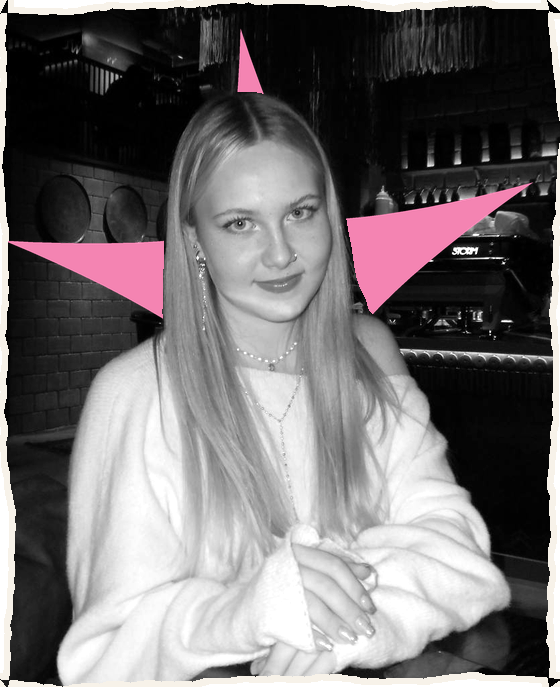
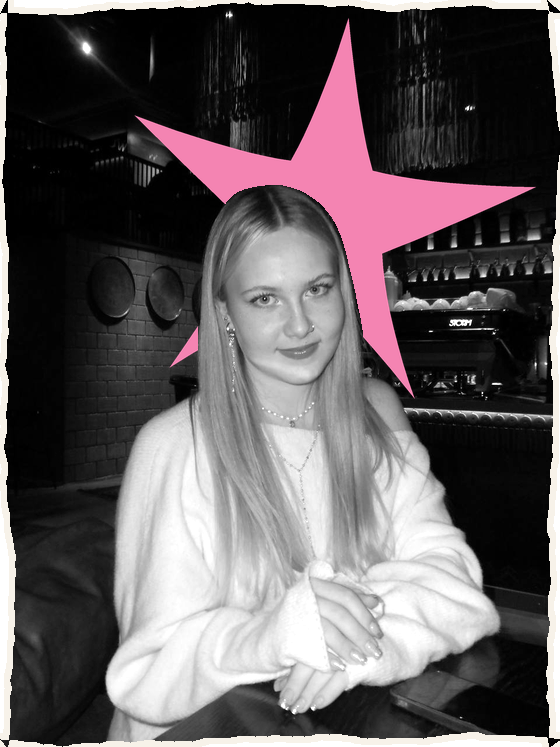
Draw the stars and hearts; titles back to Shantell Sans
The stars and hearts were regular polygons with a turbulence filter over the
top, which still reads as even — every arm the same length, every edge dead
straight. They are now drawn: arms of different lengths, angles that miss,
edges that bow, and an overshoot where an outlined stroke comes back round to
its start. tools/make-deco-symbols.py generates the path data; the shapes
ship as literal paths. Two -b variants so a shape repeated on one page is
never identical to itself.

On the About page they also no longer sit on anything. Two of the four were
overlapping — one on the body copy, one on the pink photograph — so each was
placed by measuring every content box and searching for a spot that clears
them all. Positions are scored against nine window widths at once rather than
the one they were eyeballed at, because a gap that is comfortable at 1440
closes completely at 900.

That needed two structural fixes:

  - The stage used min-height: clamp(1000px, 115vw, 1650px), so it changed
    shape as it narrowed while the photographs on it scaled with width. The
    vertical gaps closed up and pushed the decorations onto the photographs
    between 861px and 1180px. It now holds one aspect-ratio.
  - Below 860px the scraps stop being positioned and stack, but the
    decorations stayed absolute and floated over them. They now join the
    stack.

Worst clearance is 16.7px, measured at eighteen widths from 360 to 2560.
[…]

diff --git a/assets/js/sprite.js b/assets/js/sprite.js
@@ -7,11 +7,21 @@
    Everything here is decoration: mark each <svg class="deco"> aria-hidden.
 
    Pieces:
-     #scribble  #spiral  #arrow  #arrow-curve  #star-6  #star-8
-     #circle-rough  #underline  #strike  #thread-seg
+     #scribble  #spiral  #arrow  #arrow-curve  #circle-rough  #underline
+     #strike  #thread-seg
+     #star-5  #star-6  #star-8  #star-line  #star-line-b
+     #heart  #heart-line  #heart-line-b
 
    Edges are roughened by the feTurbulence/feDisplacementMap filter #rough,
    so strokes read as brush/crayon rather than clean vector lines.
+
+   The stars and hearts are NOT regular polygons with that filter laid over
+   the top — that still reads as even, because every arm is the same length
+   and every edge is straight. Their arms differ, their edges bow and the
+   outlined ones overshoot where the stroke closes. tools/make-deco-symbols.py
+   generates the path data; the shapes ship as literal paths, not as code.
+   The -b variants exist so a shape repeated on one page is never identical
+   to itself.
    ========================================================================= */
 
 (function () {
@@ -62,19 +72,23 @@
     '  </g>',
     '</symbol>',
 
-    /* --- 6-point crayon star -------------------------------------------- */
+    /* --- 6-point star, drawn  ----------------------------------------------*/
     '<symbol id="star-6" viewBox="0 0 100 100">',
     '  <path fill="currentColor" filter="url(#rough)"',
-    '        d="M98 50 61.3 56.5 74 91.6 50 63 26 91.6 38.7 56.5 2 50 38.7 43.5',
-    '           26 8.4 50 37 74 8.4 61.3 43.5Z"/>',
+    '        d="M45.9 4.4 Q52.4 16.3 60.4 27.3 Q74.9 26.3 89.1 23.5 Q79.9 35.4 72.8',
+    '           48.6 Q79.7 60.1 89.2 69.3 Q76.3 68.1 63.2 68.6 Q55.9 81.9 51.5 96.4',
+    '           Q47.3 83 40.2 70.9 Q24.4 71.5 9.1 74.9 Q18.4 64.1 25.3 51.7 Q15.4',
+    '           39.8 4.1 29.2 Q19.8 29.9 35.4 28.8 Q41.6 17 45.9 4.4Z"/>',
     '</symbol>',
 
-    /* --- 8-point crayon star -------------------------------------------- */
+    /* --- 8-point star, drawn  ----------------------------------------------*/
     '<symbol id="star-8" viewBox="0 0 100 100">',
     '  <path fill="currentColor" filter="url(#rough)"',
-    '        d="M98 50 62.9 55.4 83.9 83.9 55.4 62.9 50 98 44.6 62.9 16.1 83.9',
-    '           37.1 55.4 2 50 37.1 44.6 16.1 16.1 44.6 37.1 50 2 55.4 37.1',
-    '           83.9 16.1 62.9 44.6Z"/>',
+    '        d="M46.7 3.4 Q50.7 18 56.9 31.7 Q68.8 26 78.9 17.4 Q73.3 28.2 69.4 39.7',
+    '           Q82.8 45.6 97.3 47.6 Q82.2 49.9 68.3 56.1 Q76.5 69.6 86.4 82 Q73.7',
+    '           74.3 59.9 69 Q55.7 81.7 54.2 95 Q49.1 81.8 42.6 69.3 Q29.4 76 17.6',
+    '           84.9 Q26.4 72.7 31.6 58.5 Q18.9 55.1 5.9 53.4 Q18.6 49.4 30.1 42.7',
+    '           Q22.9 31 14.2 20.4 Q26.9 27.8 40.8 32.3 Q45.7 18.2 46.7 3.4Z"/>',
     '</symbol>',
 
     /* --- rough circle (overshoots itself, drawn twice) ------------------- */
@@ -98,34 +112,62 @@
     '        filter="url(#rough)" d="M4 12c52-6 104-4 192-5"/>',
     '</symbol>',
 
-    /* --- hand-drawn heart ------------------------------------------------ */
+    /* --- filled heart, lopsided on purpose  --------------------------------*/
     '<symbol id="heart" viewBox="0 0 100 92">',
     '  <path fill="currentColor" filter="url(#rough)"',
-    '        d="M50 88C20 66 4 48 4 30 4 14 16 4 30 4c10 0 17 6 20 13 3-7 10-13 20-13',
-    '           14 0 26 10 26 26 0 18-16 36-46 58z"/>',
+    '        d="M47.1 87.2 C23.4 66.8 6 45.5 4.1 29.7 C5 15.6 16.2 4.7 29.9 0.9',
+    '           C40.9 1.8 47.3 11.5 47.9 19.5 C53 7.6 62.8 3.9 67.3 5.1 C84.6 6.7',
+    '           96.5 18 97.6 31.8 C92.2 51.2 77.6 70.1 47.1 87.2Z"/>',
     '</symbol>',
 
-    /* --- outlined heart, drawn rather than filled ------------------------ */
+
+    /* --- outlined heart  ---------------------------------------------------*/
     '<symbol id="heart-line" viewBox="0 0 100 92">',
-    '  <path fill="none" stroke="currentColor" stroke-width="6" stroke-linejoin="round"',
-    '        filter="url(#rough)"',
-    '        d="M50 86C22 65 7 48 7 31 7 16 18 7 30 7c10 0 17 6 20 13 3-7 10-13 20-13',
-    '           12 0 23 9 23 24 0 17-15 34-43 55z"/>',
+    '  <path fill="none" stroke="currentColor" stroke-width="6"',
+    '        stroke-linecap="round" stroke-linejoin="round" filter="url(#rough)"',
+    '        d="M51.3 87.6 C20.8 65.7 5.2 48.4 6.5 31.3 C1.5 11.5 14.9 5.2 30.2 6.2',
+    '           C41 2.8 47.1 9.7 48.5 17.9 C54.4 8.6 59.2 5.4 71.3 7.8 C81.5 2.5',
+    '           97.5 16.9 96.1 30 C91.9 51.4 78.2 67.9 51.3 87.6 C35.4 76.9 28.4 71',
+    '           22.8 62.6"/>',
     '</symbol>',
 
-    /* --- filled 5-point star, for sitting behind a photograph ------------ */
+    /* --- filled 5-point star, for sitting behind a photograph  -------------*/
     '<symbol id="star-5" viewBox="0 0 100 100">',
     '  <path fill="currentColor" filter="url(#rough)"',
-    '        d="M50 2 62.7 32.5 95.7 35.2 70.5 56.7 78.2 88.8 50 71.6 21.8 88.8',
-    '           29.5 56.7 4.3 35.2 37.3 32.5Z"/>',
+    '        d="M45.8 5.1 Q51.5 20.2 59.5 34.1 Q75.2 35.6 90.8 33.6 Q78.7 43.3 69.2',
+    '           55.5 Q73.5 72.1 81.9 87 Q67.9 75.9 51.5 68.8 Q38.7 77.9 27.2 88.4',
+    '           Q31.9 72.5 33 56 Q18.9 44.4 2.6 36.4 Q19.9 37.5 37.1 35.1 Q42.5 20.4',
+    '           45.8 5.1Z"/>',
     '</symbol>',
 
-    /* --- outlined 5-point star ------------------------------------------- */
+    /* --- outlined 5-point star  --------------------------------------------*/
     '<symbol id="star-line" viewBox="0 0 100 100">',
-    '  <path fill="none" stroke="currentColor" stroke-width="5" stroke-linejoin="round"',
-    '        filter="url(#rough)"',
-    '        d="M50 4 61.3 34.4 93.8 35.8 68.4 56 77 87.2 50 69.3 23 87.2 31.6 56',
-    '           6.2 35.8 38.7 34.4Z"/>',
+    '  <path fill="none" stroke="currentColor" stroke-width="5"',
+    '        stroke-linecap="round" stroke-linejoin="round" filter="url(#rough)"',
+    '        d="M47.5 5.4 Q52.9 20.1 60.3 33.8 Q76.2 34.7 92.1 33.8 Q78.3 42.8 66.6',
+    '           54.3 Q71.5 70.6 78.3 86.1 Q65.5 75.5 51.3 66.9 Q38.1 75 26.4 85',
+    '           Q30.5 71.4 33 57.4 Q19.4 45.3 3.8 36.1 Q21.1 37.5 38.4 35.7 Q45 21.1',
+    '           47.5 5.4 Q49 9.9 51.4 13.9"/>',
+    '</symbol>',
+
+    /* --- outlined star, second hand  ---------------------------------------*/
+    '<symbol id="star-line-b" viewBox="0 0 100 100">',
+    '  <path fill="none" stroke="currentColor" stroke-width="5"',
+    '        stroke-linecap="round" stroke-linejoin="round" filter="url(#rough)"',
+    '        d="M57.5 2.7 Q58.6 18.8 63.7 34.2 Q78.9 39.2 94.7 40.9 Q80.5 47.9 68.3',
+    '           57.8 Q68 72.8 71.1 87.4 Q60.8 76.5 47.8 68.8 Q34.7 74.1 22.6 81.6',
+    '           Q28 68.3 30 54.1 Q20.8 41.3 9.5 30.2 Q24.5 33.5 40 33.4 Q50.5 19.1',
+    '           57.5 2.7 Q58 7.5 59.4 12.2"/>',
+    '</symbol>',
+
+    /* --- outlined heart, second hand  --------------------------------------*/
+    '<symbol id="heart-line-b" viewBox="0 0 100 92">',
+    '  <path fill="none" stroke="currentColor" stroke-width="6"',
+    '        stroke-linecap="round" stroke-linejoin="round" filter="url(#rough)"',
+    '        d="M48.6 87.8 C21 66.1 6.8 50.3 7.4 27.9 C3.5 15.6 13.7 4.6 30.4 5.1',
+    '           C41.4 2.7 46.7 11.2 50.5 16.8 C55.7 8.9 61.1 5.4 66.5 6.4 C83.7 3',
+    '           92.8 17.3 95.3 30.7 C92.9 51.6 76.1 68.6 48.6 87.8 C36.7 76.9 27',
+    '           69.7 21.1 63.5"/>',
     '</symbol>',
 
     /* --- short connecting thread (mobile card stack) --------------------- */

diff --git a/about.html b/about.html
@@ -7,7 +7,7 @@
 <meta name="description" content="Mariia Berdnikova — what connects music, media, film and production. Kazan, Tatarstan.">
 <link rel="preconnect" href="https://fonts.googleapis.com">
 <link rel="preconnect" href="https://fonts.gstatic.com" crossorigin>
-<link href="https://fonts.googleapis.com/css2?family=Inter:wght@400..800&family=Rock+Salt&family=Space+Grotesk:wght@400..700&display=swap" rel="stylesheet">
+<link href="https://fonts.googleapis.com/css2?family=Inter:wght@400..800&family=Rock+Salt&family=Shantell+Sans:BNCE,INFM,SPAC,wght@-100..100,0..100,0..100,300..800&family=Space+Grotesk:wght@400..700&display=swap" rel="stylesheet">
 <link rel="icon" href="assets/img/favicon.svg" type="image/svg+xml">
 <link rel="stylesheet" href="assets/css/site.css">
 <script>document.documentElement.classList.add('js');</script>
@@ -49,7 +49,7 @@
       </div>
 
       <svg viewBox="0 0 100 92" class="deco deco--float deco--ink" aria-hidden="true" focusable="false"
-           style="--x:28%; --y:1%; --w:48px; --rot:12deg"><use href="#heart-line"/></svg>
+           style="--x:24%; --y:11.5%; --w:48px; --rot:12deg"><use href="#heart-line"/></svg>
 
       <!-- Cut out by hand; the page sets her partly over the pink. -->
       <figure class="scrap snap" data-reveal
@@ -71,7 +71,7 @@
 
       <figure class="scrap snap" data-reveal
               style="--x:61%; --y:55%; --w:23%; --rot:2deg; --z:3">
-        <img src="assets/img/about-snap-1.png" alt="" width="560" height="684">
+        <img src="assets/img/about-snap-1.png" alt="" width="560" height="747">
       </figure>
 
 
@@ -118,11 +118,11 @@
            style="--x:31%; --y:70%; --w:13%; --h:38px; --rot:-5deg; --z:4"></div>
 
       <svg viewBox="0 0 100 92" class="deco deco--float" aria-hidden="true" focusable="false"
-           style="--x:92%; --y:24%; --w:44px; --rot:-10deg"><use href="#heart"/></svg>
+           style="--x:80.5%; --y:43%; --w:44px; --rot:-10deg"><use href="#heart"/></svg>
       <svg viewBox="0 0 100 100" class="deco deco--float deco--ink" data-parallax="0.04" aria-hidden="true" focusable="false"
-           style="--x:25%; --y:46%; --w:42px; --rot:-12deg"><use href="#star-line"/></svg>
+           style="--x:24.5%; --y:47%; --w:42px; --rot:-12deg"><use href="#star-line"/></svg>
       <svg viewBox="0 0 100 92" class="deco deco--float deco--ink" data-parallax="0.03" aria-hidden="true" focusable="false"
-           style="--x:47%; --y:95%; --w:38px; --rot:-8deg"><use href="#heart-line"/></svg>
+           style="--x:53%; --y:71%; --w:38px; --rot:-8deg"><use href="#heart-line-b"/></svg>
     </div>
 
   </main>

diff --git a/assets/css/site.css b/assets/css/site.css
@@ -39,7 +39,9 @@
      The site is written in Latin throughout — the projects are called
      MoozeOn and Shodka rather than their Russian names — so the display
      face needs no Cyrillic and carries no fallback for it. */
-  --font-display: 'Rock Salt', 'Permanent Marker', cursive;
+  --font-display: 'Shantell Sans', 'Permanent Marker', cursive;
+  /* Rock Salt is kept for one job only: the 01/02/03 on the work index. */
+  --font-numeral: 'Rock Salt', 'Permanent Marker', cursive;
   --font-label: 'Inter', system-ui, sans-serif;
   --font-body: 'Space Grotesk', 'Inter', system-ui, sans-serif;
 
@@ -777,7 +779,14 @@ button:focus-visible,
   flex: 1 1 auto;
 }
 .work-row__meta { flex: 0 0 auto; }
-.work-row__no { color: var(--accent); }
+.work-row__no {
+  color: var(--accent);
+  /* The one place Rock Salt survives — it is doing numerals, not titles. */
+  font-family: var(--font-numeral);
+  font-size: 0.78em;
+  letter-spacing: 0.01em;
+  margin-right: 4px;
+}
 
 /* From laptop width up the film fills the whole first screen, edge to edge.
    Everything else that sits on it — nav, corner labels, the scroll cue, the
@@ -881,7 +890,11 @@ button:focus-visible,
 .scrapbook {
   position: relative;
   max-width: 1180px;
-  min-height: clamp(1000px, 115vw, 1650px);
+  /* A fixed ratio, not a min-height: every piece on the stage is placed as a
+     percentage, so the stage has to keep ONE shape or the vertical gaps
+     between pieces close up as it narrows — which is what used to push the
+     stars and hearts onto the photographs between 861px and 1180px. */
+  aspect-ratio: 1180 / 1650;
   /* auto on the inline axis, or the stage sits left instead of centred —
      and this must come after any margin shorthand, not before it. */
   margin: clamp(24px, 4vw, 48px) auto 0;
@@ -983,11 +996,20 @@ button:focus-visible,
 
 @media (max-width: 860px) {
   .scrapbook {
+    aspect-ratio: auto;
     min-height: 0;
     display: grid;
     gap: clamp(30px, 8vw, 52px);
     justify-items: start;
   }
+  .scrapbook .deco--float {
+    position: static;
+    transform: rotate(var(--rot, 0deg));
+    width: var(--w-mobile, 44px);
+    margin: 0;
+  }
+  .scrapbook .deco--float:nth-of-type(even) { justify-self: end; }
+
   .scrap {
     position: static;
     width: min(90%, 460px);

diff --git a/projects/moozeon.html b/projects/moozeon.html
@@ -7,7 +7,7 @@
 <meta name="description" content="MoozeOn — a music-culture platform documenting regional and indigenous music scenes across post-Soviet space. Founded by Mariia Berdnikova.">
 <link rel="preconnect" href="https://fonts.googleapis.com">
 <link rel="preconnect" href="https://fonts.gstatic.com" crossorigin>
-<link href="https://fonts.googleapis.com/css2?family=Inter:wght@400..800&family=Rock+Salt&family=Space+Grotesk:wght@400..700&display=swap" rel="stylesheet">
+<link href="https://fonts.googleapis.com/css2?family=Inter:wght@400..800&family=Rock+Salt&family=Shantell+Sans:BNCE,INFM,SPAC,wght@-100..100,0..100,0..100,300..800&family=Space+Grotesk:wght@400..700&display=swap" rel="stylesheet">
 <link rel="icon" href="../assets/img/favicon.svg" type="image/svg+xml">
 <link rel="stylesheet" href="../assets/css/site.css">
 <script>document.documentElement.classList.add('js');</script>

diff --git a/projects/research.html b/projects/research.html
@@ -7,7 +7,7 @@
 <meta name="description" content="Academic work on music as a mechanism of self-reconstruction, using Turner’s liminality model and Erikson’s psychosocial framework.">
 <link rel="preconnect" href="https://fonts.googleapis.com">
 <link rel="preconnect" href="https://fonts.gstatic.com" crossorigin>
-<link href="https://fonts.googleapis.com/css2?family=Inter:wght@400..800&family=Rock+Salt&family=Space+Grotesk:wght@400..700&display=swap" rel="stylesheet">
+<link href="https://fonts.googleapis.com/css2?family=Inter:wght@400..800&family=Rock+Salt&family=Shantell+Sans:BNCE,INFM,SPAC,wght@-100..100,0..100,0..100,300..800&family=Space+Grotesk:wght@400..700&display=swap" rel="stylesheet">
 <link rel="icon" href="../assets/img/favicon.svg" type="image/svg+xml">
 <link rel="stylesheet" href="../assets/css/site.css">
 <script>document.documentElement.classList.add('js');</script>

diff --git a/projects/shodka.html b/projects/shodka.html
@@ -7,7 +7,7 @@
 <meta name="description" content="Shodka — a music community in Kazan. Co-organizer: concert production, artist negotiation, tech riders, soundchecks.">
 <link rel="preconnect" href="https://fonts.googleapis.com">
 <link rel="preconnect" href="https://fonts.gstatic.com" crossorigin>
-<link href="https://fonts.googleapis.com/css2?family=Inter:wght@400..800&family=Rock+Salt&family=Space+Grotesk:wght@400..700&display=swap" rel="stylesheet">
+<link href="https://fonts.googleapis.com/css2?family=Inter:wght@400..800&family=Rock+Salt&family=Shantell+Sans:BNCE,INFM,SPAC,wght@-100..100,0..100,0..100,300..800&family=Space+Grotesk:wght@400..700&display=swap" rel="stylesheet">
 <link rel="icon" href="../assets/img/favicon.svg" type="image/svg+xml">
 <link rel="stylesheet" href="../assets/css/site.css">
 <script>document.documentElement.classList.add('js');</script>

diff --git a/index.html b/index.html
@@ -7,7 +7,7 @@
 <meta name="description" content="Mariia (Mary) Berdnikova — creative producer working across music, media, film and event production. Kazan, Tatarstan.">
 <link rel="preconnect" href="https://fonts.googleapis.com">
 <link rel="preconnect" href="https://fonts.gstatic.com" crossorigin>
-<link href="https://fonts.googleapis.com/css2?family=Inter:wght@400..800&family=Rock+Salt&family=Space+Grotesk:wght@400..700&display=swap" rel="stylesheet">
+<link href="https://fonts.googleapis.com/css2?family=Inter:wght@400..800&family=Rock+Salt&family=Shantell+Sans:BNCE,INFM,SPAC,wght@-100..100,0..100,0..100,300..800&family=Space+Grotesk:wght@400..700&display=swap" rel="stylesheet">
 <link rel="icon" href="assets/img/favicon.svg" type="image/svg+xml">
 <link rel="stylesheet" href="assets/css/site.css">
 <script>document.documentElement.classList.add('js');</script>

diff --git a/projects/yummy-music.html b/projects/yummy-music.html
@@ -7,7 +7,7 @@
 <meta name="description" content="Yummy Music — independent label in Tatarstan. Assistant to the head / creative producer since late 2025.">
 <link rel="preconnect" href="https://fonts.googleapis.com">
 <link rel="preconnect" href="https://fonts.gstatic.com" crossorigin>
-<link href="https://fonts.googleapis.com/css2?family=Inter:wght@400..800&family=Rock+Salt&family=Space+Grotesk:wght@400..700&display=swap" rel="stylesheet">
+<link href="https://fonts.googleapis.com/css2?family=Inter:wght@400..800&family=Rock+Salt&family=Shantell+Sans:BNCE,INFM,SPAC,wght@-100..100,0..100,0..100,300..800&family=Space+Grotesk:wght@400..700&display=swap" rel="stylesheet">
 <link rel="icon" href="../assets/img/favicon.svg" type="image/svg+xml">
 <link rel="stylesheet" href="../assets/css/site.css">
 <script>document.documentElement.classList.add('js');</script>

diff --git a/projects/dartfest.html b/projects/dartfest.html
@@ -7,7 +7,7 @@
 <meta name="description" content="Dartfest 2025 — Assistant to the Main Stage Producer. 40,000+ attendees, 120 performers.">
 <link rel="preconnect" href="https://fonts.googleapis.com">
 <link rel="preconnect" href="https://fonts.gstatic.com" crossorigin>
-<link href="https://fonts.googleapis.com/css2?family=Inter:wght@400..800&family=Rock+Salt&family=Space+Grotesk:wght@400..700&display=swap" rel="stylesheet">
+<link href="https://fonts.googleapis.com/css2?family=Inter:wght@400..800&family=Rock+Salt&family=Shantell+Sans:BNCE,INFM,SPAC,wght@-100..100,0..100,0..100,300..800&family=Space+Grotesk:wght@400..700&display=swap" rel="stylesheet">
 <link rel="icon" href="../assets/img/favicon.svg" type="image/svg+xml">
 <link rel="stylesheet" href="../assets/css/site.css">
 <script>document.documentElement.classList.add('js');</script>

diff --git a/projects/short-film.html b/projects/short-film.html
@@ -7,7 +7,7 @@
 <meta name="description" content="A short film in development — a personal creative project by Mariia Berdnikova.">
 <link rel="preconnect" href="https://fonts.googleapis.com">
 <link rel="preconnect" href="https://fonts.gstatic.com" crossorigin>
-<link href="https://fonts.googleapis.com/css2?family=Inter:wght@400..800&family=Rock+Salt&family=Space+Grotesk:wght@400..700&display=swap" rel="stylesheet">
+<link href="https://fonts.googleapis.com/css2?family=Inter:wght@400..800&family=Rock+Salt&family=Shantell+Sans:BNCE,INFM,SPAC,wght@-100..100,0..100,0..100,300..800&family=Space+Grotesk:wght@400..700&display=swap" rel="stylesheet">
 <link rel="icon" href="../assets/img/favicon.svg" type="image/svg+xml">
 <link rel="stylesheet" href="../assets/css/site.css">
 <script>document.documentElement.classList.add('js');</script>

diff --git a/art.html b/art.html
@@ -7,7 +7,7 @@
 <meta name="description" content="Visual work by Mariia Berdnikova — collage, graphics, stills.">
 <link rel="preconnect" href="https://fonts.googleapis.com">
 <link rel="preconnect" href="https://fonts.gstatic.com" crossorigin>
-<link href="https://fonts.googleapis.com/css2?family=Inter:wght@400..800&family=Rock+Salt&family=Space+Grotesk:wght@400..700&display=swap" rel="stylesheet">
+<link href="https://fonts.googleapis.com/css2?family=Inter:wght@400..800&family=Rock+Salt&family=Shantell+Sans:BNCE,INFM,SPAC,wght@-100..100,0..100,0..100,300..800&family=Space+Grotesk:wght@400..700&display=swap" rel="stylesheet">
 <link rel="icon" href="assets/img/favicon.svg" type="image/svg+xml">
 <link rel="stylesheet" href="assets/css/site.css">
 <script>document.documentElement.classList.add('js');</script>

diff --git a/contact.html b/contact.html
@@ -7,7 +7,7 @@
 <meta name="description" content="Get in touch with Mariia Berdnikova — email and Telegram.">
 <link rel="preconnect" href="https://fonts.googleapis.com">
 <link rel="preconnect" href="https://fonts.gstatic.com" crossorigin>
-<link href="https://fonts.googleapis.com/css2?family=Inter:wght@400..800&family=Rock+Salt&family=Space+Grotesk:wght@400..700&display=swap" rel="stylesheet">
+<link href="https://fonts.googleapis.com/css2?family=Inter:wght@400..800&family=Rock+Salt&family=Shantell+Sans:BNCE,INFM,SPAC,wght@-100..100,0..100,0..100,300..800&family=Space+Grotesk:wght@400..700&display=swap" rel="stylesheet">
 <link rel="icon" href="assets/img/favicon.svg" type="image/svg+xml">
 <link rel="stylesheet" href="assets/css/site.css">
 <script>document.documentElement.classList.add('js');</script>
